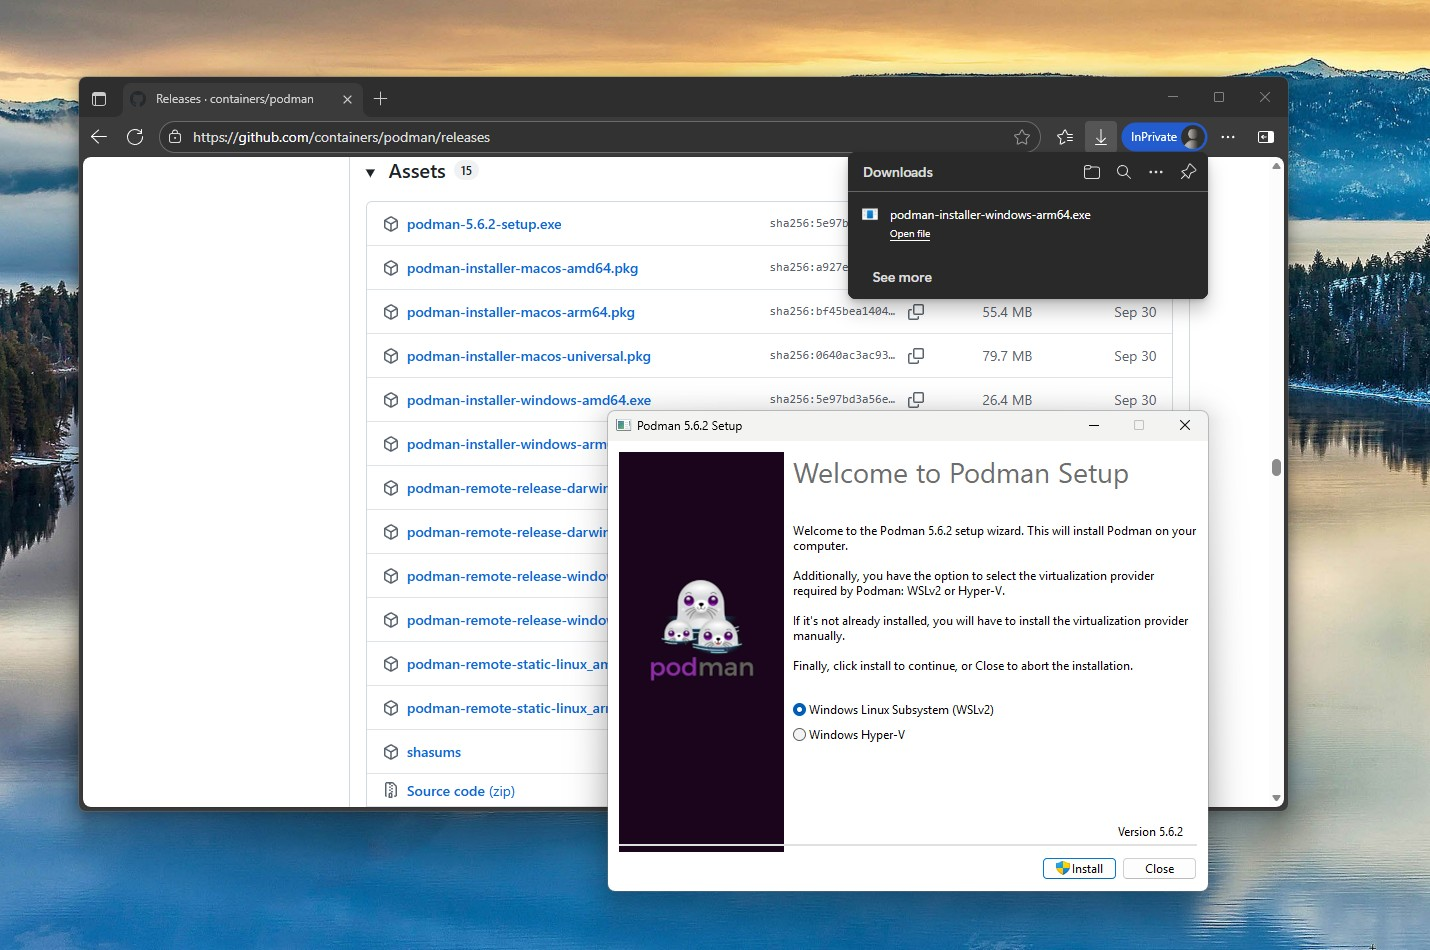
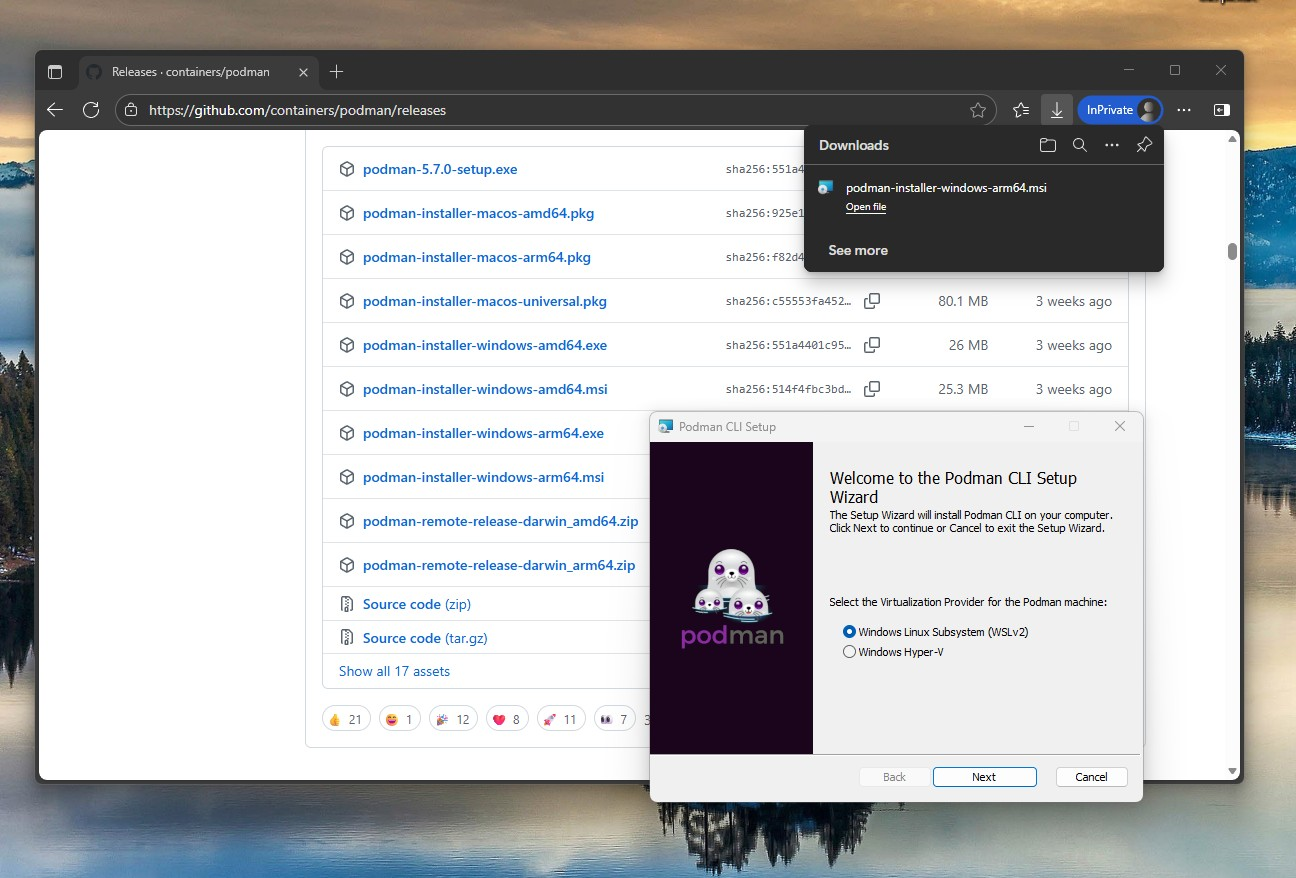
Update the Podman on Windows tutorial for 6.0.x

diff --git a/docs/tutorials/podman-for-windows.md b/docs/tutorials/podman-for-windows.md
@@ -13,7 +13,7 @@ the `podman machine` command.
 On Windows, each Podman machine is backed by a virtualized Windows Subsystem for
 Linux (WSLv2) distribution or an Hyper-V virtual machine.
 
-The podman command can be run directly from your Windows PowerShell (or CMD)
+The Podman command can be run directly from your Windows PowerShell (or CMD)
 prompt, where it remotely communicates with the podman service running in the
 guest environment. In addition to command-line access, Podman also listens for
 Docker API clients, supporting direct usage of Docker-based tools and
@@ -48,15 +48,16 @@ Table of Contents
 Prerequisites
 -------------
 
-Because Podman uses WSLv2 or Hyper-V, you need a recent release of Windows 10 or
-later. On x64, WSLv2 requires build 18362 or later, and 19041 or later is
-required for arm64 systems. Internally, WSL and Hyper-V use virtualization, so
-your system must support and have hardware virtualization enabled. If you are
-running Windows on a VM, you must have a VM that supports nested virtualization.
+Because Podman uses WSLv2 or Hyper-V recent features, you need Windows 11 or
+later. Internally, WSL and Hyper-V use virtualization, so your system must
+support and have hardware virtualization enabled. If you are running Windows on
+a VM, you must have a VM that supports nested virtualization.
 
 Hyper-V is only available on Windows Enterprise, Pro, or Education editions (not
-Home). The `podman machine` sub-commands (init, start, stop, rm, etc...) require
-administrator privileges.
+Home). The command to initialize the first Hyper-V Podman machine, and the command
+to remove the last one, both require administrator privileges. Other commands for
+machine management (start, stop, etc...) require that the current user is a member
+of the Hyper-V administrators group.
 
 It is also recommended to install the modern "Windows Terminal," which
 provides a superior user experience to the standard PowerShell and CMD
@@ -74,20 +75,27 @@ Installing the Windows Podman client begins by downloading the Podman Windows
 installer. The Windows installer is built with each Podman release and can be
 downloaded from the official
 [GitHub release page](https://github.com/containers/podman/releases).
-Be sure to download a Podman 5.6 or later release for the capabilities discussed
+Be sure to download a Podman 6.0 or later release for the capabilities discussed
 in this guide.
 
-The Windows installer is provided as an installation bundle (e.g.,
-`podman-installer-windows-arm64.exe`). It only supports machine-scope
-installations: it requires administrator privileges. Files are installed in
-`%PROGRAMFILES%\RedHat\Podman`, and the PATH is updated for all users.
+The Windows installer is provided as an MSI package (e.g.,
+`podman-installer-windows-arm64.msi`). The installer supports both user-scope
+and machine-scope installations:
+
+- **User scope (per-user)**: No administrator privileges required. Files are
+  installed in the user's profile directory (`%LOCALAPPDATA%\Programs\Podman`),
+  and the PATH is updated only for the current user. This is the default scope.
+
+- **Machine scope (per-machine)**: Requires administrator privileges. Files are
+  installed in `%PROGRAMFILES%\Podman`, and the PATH is updated for all users.
 
 During installation, you can select the virtualization provider (WSL or Hyper-V)
 that Podman will use for machines. The installer will create a configuration
-file at `%PROGRAMDATA%\containers\containers.conf.d\99-podman-machine-provider.conf`
-with the selected provider.
+file at `%APPDATA%\containers\containers.conf.d\99-podman-machine-provider.conf`
+(for user scope) or `%PROGRAMDATA%\containers\containers.conf.d\99-podman-machine-provider.conf`
+(for machine scope) with the selected provider.
 
-![Installing Podman 5.6.2](podman-win-install.jpg)
+![Installing Podman 6.0.0](podman-win-install.jpg)
 
 Once installed, relaunch a new terminal. After this point, `podman.exe` will be
 present on your PATH, and you will be able to run the `podman machine init`
@@ -106,21 +114,25 @@ an administrator PowerShell prompt.
 The following tables list the directories, files and registry keys used by
 Podman on Windows.
 
-| Directory or file                                                            | Description                           |
-|------------------------------------------------------------------------------|---------------------------------------|
-| `%PROGRAMFILES%\RedHat\Podman`                                               | Installation directory                |
-| `%PROGRAMDATA%\containers\containers.conf.d\99-podman-machine-provider.conf` | Installer created configuration file  |
-| `%APPDATA%\containers\containers.conf`                                       | Client main configuration file        |
-| `%APPDATA%\containers\podman-connections.json`                               | Client connections configuration file |
-| `%USERPROFILE%\.local\share\containers\podman\machine`                       | Machines data directory               |
-| `%USERPROFILE%\.config\containers\podman\machine\`                           | Machines configuration directory      |
-| `%USERPROFILE%\.local\share\containers\storage\podman\`                      | Containers and images storage layers  |
+| Directory or file                                                            | Description                                |
+|------------------------------------------------------------------------------|--------------------------------------------|
+| `%LocalAppData%\Programs\Podman\`                                            | Installation directory                     |
+| `%APPDATA%\containers\containers.conf.d\99-podman-machine-provider.conf`     | Installer created configuration file       |
+| `%APPDATA%\containers\containers.conf`                                       | Client main configuration file             |
+| `%APPDATA%\containers\podman-connections.json`                               | Client connections configuration file      |
+| `%USERPROFILE%\.local\share\containers\podman\machine`                       | Machines data directory                    |
+| `%USERPROFILE%\.config\containers\podman\machine\`                           | Machines configuration directory           |
+| `%USERPROFILE%\.local\share\containers\storage\podman\`                      | Containers and images storage layers       |
+| `%ProgramFiles%\Podman\`                                                     | Machine-scope installation directory       |
+| `%ProgramData%\containers\containers.conf.d\99-podman-machine-provider.conf` | Machine-scope installer created conf file  |
+| `%ProgramData%\containers\containers.conf`                                   | Machine-scope client configuration file    |
 
 Table: Directories and files used by Podman on Windows
 
 | Key                                                                                            | Description                                                                        |
 |------------------------------------------------------------------------------------------------|------------------------------------------------------------------------------------|
-| `HKLM:\SOFTWARE\Red Hat\Podman`                                                                | Installation directory path                                                        |
+| `HKCU:\SOFTWARE\Podman`                                                                        | Installation directory path                                                        |
+| `HKLM:\SOFTWARE\Podman`                                                                        | Machine-scope Installation directory path                                          |
 | `HKLM:\SOFTWARE\Microsoft\Windows NT\CurrentVersion\Virtualization\GuestCommunicationServices` | Hyper-V socket registry entries (`{PORT_HEX}-FACB-11E6-BD58-64006A7986D3` pattern) |
 
 Table: Registry keys used by Podman on Windows
@@ -134,12 +146,12 @@ The image is customized to run Podman.
 
 ```powershell
 PS C:\Users\User> podman machine init
-Looking up Podman Machine image at quay.io/podman/machine-os:5.6 to create VM
+Looking up Podman Machine image at quay.io/podman/machine-os:6.0 to create VM
 Getting image source signatures
-Copying blob 26cff917a2a5 done   |
+Copying blob 24c97bc42489 done   |
 Copying config 44136fa355 done   |
 Writing manifest to image destination
[2 lines of base64/hex data omitted]
 Extracting compressed file: podman-machine-default-arm64: done
 Importing operating system into WSL (this may take a few minutes on a new WSL install)...
 The operation completed successfully.
@@ -150,8 +162,24 @@ To start your machine run:
         podman machine start
 ```
 
-**Note:** Hyper-V requires administrator privileges to manage the
-podman machine.
+You can also specify the virtualization provider when initializing a machine:
+
+```powershell
+PS C:\Users\User> podman machine init --provider wsl
+```
+
+or
+
+```powershell
+PS C:\Users\User> podman machine init --provider hyperv
+```
+
+**Note:** Hyper-V requires administrator privileges to initialize the first
+podman machine. Similarly it requires administrator privileges to remove the
+last machine. That's because these operation create and delete
+machine-scope registry keys, required to support the communication between the
+guest OS and the host. Other commands such as machine start and stop require
+that the current user is a member of the Hyper-V Administrator group.
 
 Starting Machine
 ----------------
@@ -287,7 +315,7 @@ podman machine set --rootful=false
 ```
 
 Another case in which you may wish to use rootful execution is binding a port
-less than 1024. However, future versions of podman will likely drop this to a
+less than 1024. However, future versions of Podman will likely drop this to a
 lower number to improve compatibility with defaults on system port services (such
 as MySQL)
 
@@ -297,7 +325,7 @@ Configuring the Machine Provider
 Podman on Windows supports two virtualization providers: WSL and Hyper-V. The
 provider can be configured in several ways:
 
-1. **During installation**: The installer allows you to select the provider
+1. **During installation**: The MSI installer allows you to select the provider
    during installation and creates a configuration file automatically.
 
 2. **Via configuration file**: You can manually create or edit the configuration
@@ -322,6 +350,12 @@ provider can be configured in several ways:
 
 3. **Via environment variable**: Set `CONTAINERS_MACHINE_PROVIDER` to `wsl` or
    `hyperv`.
+
+4. **Via command line**: Specify the provider when initializing a machine:
+
+   ```powershell
+   podman machine init --provider wsl
+   ```
 
 **Note:** WSL and Hyper-V machines cannot run simultaneously. You must stop
 machines using one provider before starting machines with the other.
@@ -360,17 +394,6 @@ PS C:\Users\User> podman machine ls
 
 NAME                    VM TYPE     CREATED         LAST UP            CPUS        MEMORY      DISK SIZE
 wsl-default             wsl         2 hours ago     Currently running  12          16G         768MB
-```
-
-The command lists the machines of the configured provider. In the example above,
-the configured provider is WSL, so the command lists the WSL machines. In the
-example below, the configured provider is Hyper-V:
-
-```powershell
-PS C:\Users\User> podman machine ls
-
-
-NAME                    VM TYPE     CREATED         LAST UP            CPUS        MEMORY      DISK SIZE
 hyperv-default*         hyperv      16 minutes ago  Never              6           2GiB        100GiB
 ```
 
@@ -494,7 +517,7 @@ Podman can be uninstalled from the Windows Control Panel. Administrator
 privileges are required if Podman was installed for the machine, rather than for
 a user.
 
-The uninstaller does not clean up Podman data an configuration resources. These
+The uninstaller does not clean up Podman data and configuration resources. These
 must be cleaned up manually.
 
 Troubleshooting
